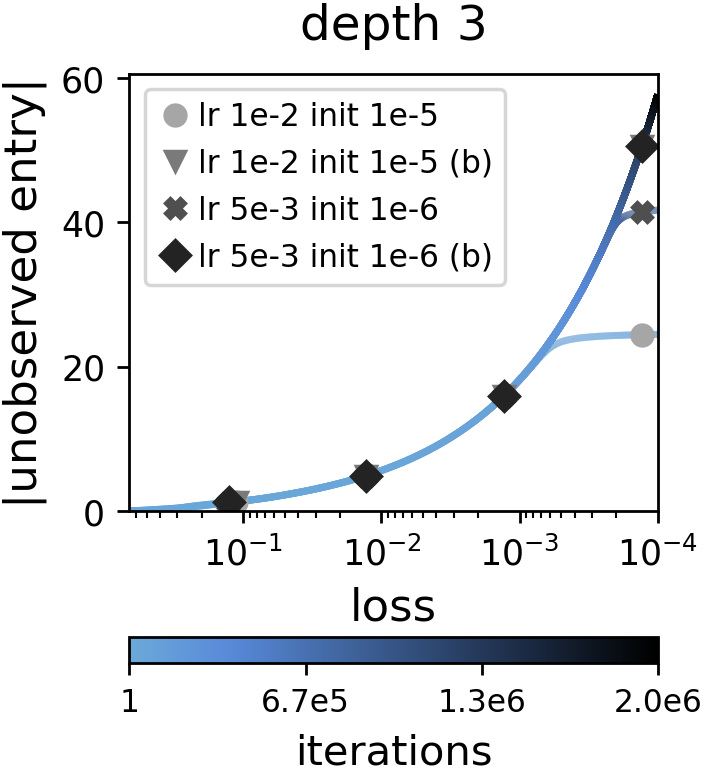
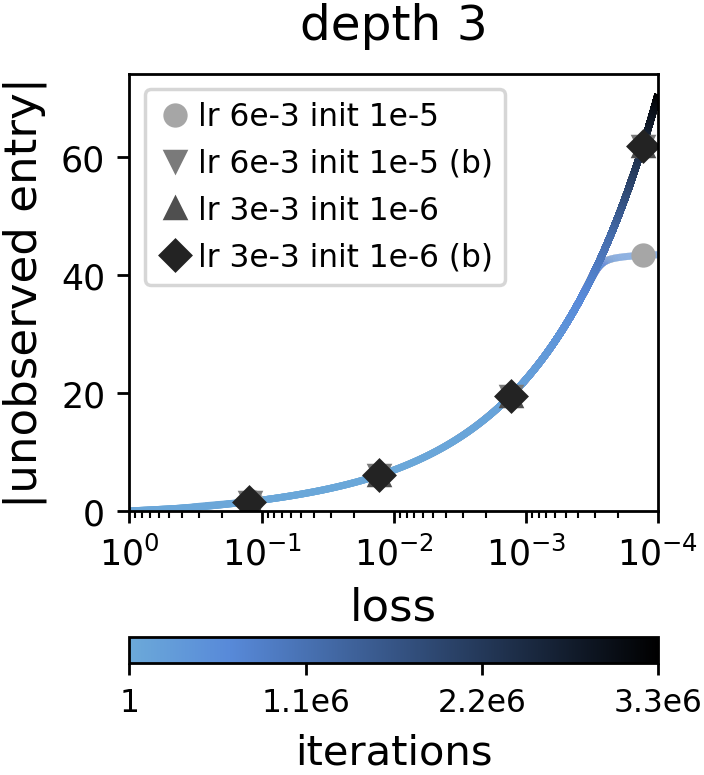
Minor changes --- updated according to new paper version

diff --git a/trainers/dln_matrix_sensing_configurable_trainer.py b/trainers/dln_matrix_sensing_configurable_trainer.py
@@ -54,7 +54,8 @@ class DLNMatrixSensingConfigurableTrainer(ConfigurableTrainerBase):
         return torch.utils.data.DataLoader(train_dataset, batch_size=len(train_dataset), shuffle=False)
 
     def create_train_and_validation_evaluators(self, model: nn.Module, device, params: dict, state: dict) -> Tuple[TrainEvaluator, Evaluator]:
-        train_metric_info_seq = [metrics.MetricInfo("mse_loss", metrics.MSELoss())]
+        train_metric_info_seq = [metrics.MetricInfo("mse_loss", metrics.MSELoss()),
+                                 metrics.MetricInfo("sse_loss_div_2", metrics.MSELoss(reduction="sum", normalization_const=2))]
         train_evaluator = SupervisedTrainEvaluator(train_metric_info_seq)
 
         tracked_e2e_value_indices = params["tracked_e2e_value_of"]
@@ -77,7 +78,7 @@ class DLNMatrixSensingConfigurableTrainer(ConfigurableTrainerBase):
         if params["store_checkpoints"]:
             callbacks_list.append(Checkpoint(state["experiment_dir"], save_interval=params["save_every_num_val"] * params["validate_every"], n_saved=1))
 
-        train_loss_fn = lambda trainer: trainer.train_evaluator.get_tracked_values()["mse_loss"].current_value
+        train_loss_fn = lambda trainer: trainer.train_evaluator.get_tracked_values()["sse_loss_div_2"].current_value
         callbacks_list.append(StopOnZeroTrainLoss(train_loss_fn=train_loss_fn, tol=params["stop_on_zero_loss_tol"]))
         callbacks_list.append(TerminateOnNaN(verify_batches=False))
 
@@ -94,19 +95,20 @@ class DLNMatrixSensingConfigurableTrainer(ConfigurableTrainerBase):
     def create_trainer(self, model: nn.Module, train_evaluator: TrainEvaluator, val_evaluator: Evaluator, callback: Callback, device, params: dict,
                        state: dict) -> Trainer:
         optimizer = optim.SGD(model.parameters(), lr=params["lr"])
-        loss = nn.MSELoss()
+        mse_loss = nn.MSELoss()
+        loss = lambda y_pred, y: mse_loss(y_pred, y) * (len(y_pred) / 2)
         return DLNMatrixSensingTrainer(model, optimizer, loss, train_evaluator=train_evaluator, val_evaluator=val_evaluator,
                                        callback=callback, device=device)
 
     def create_fit_result(self, trainer: Trainer, fit_output: FitOutput, params: dict, state: dict) -> ConfigurableTrainerFitResult:
-        mse_loss_tracked_value = fit_output.train_tracked_values["mse_loss"]
-        score = mse_loss_tracked_value.current_value if mse_loss_tracked_value.current_value is not None else -1
-        score_epoch = mse_loss_tracked_value.epochs_with_values[-1] if len(mse_loss_tracked_value.epochs_with_values) > 0 else -1
+        sse_loss_div_2 = fit_output.train_tracked_values["sse_loss_div_2"]
+        score = sse_loss_div_2.current_value if sse_loss_div_2.current_value is not None else -1
+        score_epoch = sse_loss_div_2.epochs_with_values[-1] if len(sse_loss_div_2.epochs_with_values) > 0 else -1
 
         if params["save_results"]:
             self.__save_results(trainer, fit_output, state)
 
-        return ConfigurableTrainerFitResult(score, "mse_loss", score_epoch=score_epoch)
+        return ConfigurableTrainerFitResult(score, "sse_loss_div_2", score_epoch=score_epoch)
 
     def __save_results(self, trainer: Trainer, fit_output: FitOutput, state):
         if not os.path.exists(state["experiment_dir"]):

diff --git a/dmf_results_plotter.py b/dmf_results_plotter.py
@@ -8,7 +8,7 @@ import numpy as np
 import torch
 from matplotlib.collections import LineCollection
 
-MARKERS = ["o", "v", "X", "D", "s", "1", "^", "*"]
+MARKERS = ["o", "v", "^", "D", "s", "1", "^", "h"]
 
 
 def create_training_dynamics_plots(checkpoints, experiment_name, plot_title="", min_loss=1e-4, save_plot_to=""):
@@ -87,7 +87,7 @@ def __create_marker_places(loss_values, min_loss):
 def __extract_plot_info_from_evaluators(train_evaluators_tracked_values, val_evaluators_tracked_values, min_loss):
     loss_values_seq, unobserved_entry_abs_values_seq, iterations_seq = [], [], []
     for i, (train_tracked_values, val_tracked_values) in enumerate(zip(train_evaluators_tracked_values, val_evaluators_tracked_values)):
-        loss_tracked_value = train_tracked_values["mse_loss"]
+        loss_tracked_value = train_tracked_values["sse_loss_div_2"]
         unobserved_entry_tracked_value = val_tracked_values["e2e_0_0_value"]
 
         epochs_with_unobserved_entry_value = unobserved_entry_tracked_value["epochs_with_values"]

diff --git a/dmf_experiment_runner.py b/dmf_experiment_runner.py
@@ -33,7 +33,7 @@ def main():
     p.add_argument("-stop_on_zero_loss_tol", type=float, default=1e-4, help="Stops when train loss reaches below this threshold.")
     p.add_argument("-validate_every", type=int, default=50, help="Run validation every this number of epochs")
     p.add_argument("-save_every_num_val", type=int, default=5, help="Saves checkpoints and plots every this number of validations.")
-    p.add_argument("-lr", type=float, default=5e-3, help="Training learning rate")
+    p.add_argument("-lr", type=float, default=3e-3, help="Training learning rate")
     p.add_argument("-tracked_e2e_value_of", type=int, nargs="+", action="append", default=[],
                    help="Indices of entries to track in the product matrix.")
     p.add_argument("-track_singular_values", action="store_true", help="Tracks the singular values of the product matrix.")

diff --git a/common/evaluation/metrics/regression.py b/common/evaluation/metrics/regression.py
@@ -6,12 +6,14 @@ class MSELoss(AveragedMetric):
     MSE loss metric.
     """
 
-    def __init__(self, reduction="mean"):
+    def __init__(self, reduction="mean", normalization_const=1):
         """
         :param reduction: reduction method param as supported by PyTorch MSELoss. Currently supports 'mean', 'sum' and 'none'
+        :param normalization_const: Loss is divided by this constant.
         """
         super().__init__()
         self.reduction = reduction
+        self.normalization_const = normalization_const
 
     def _calc_metric(self, y_pred, y):
         """
@@ -22,4 +24,5 @@ class MSELoss(AveragedMetric):
         """
         losses = (y_pred - y) ** 2
         loss = losses.mean() if self.reduction == "mean" else losses.sum()
+        loss /= self.normalization_const
         return loss.item(), len(y)

diff --git a/dmf_multiple_experiments_runner.py b/dmf_multiple_experiments_runner.py
@@ -26,7 +26,7 @@ def create_experiments_params_and_param_options_seq():
             "stop_on_zero_loss_tol": 1e-04,
             "validate_every": 50,
             "save_every_num_val": 100,
-            "lr": 5e-3,
+            "lr": 3e-3,
             "tracked_e2e_value_of": [[0, 0], [0, 1], [1, 0], [1, 1]],
             "track_singular_values": True,
         }

diff --git a/README.md b/README.md
@@ -27,7 +27,7 @@ python dmf_multiple_experiments_runner.py
 - A folder with checkpoints, metric plots and a log file will be automatically created under the directory specified by the ```output_dir``` parameter (default is "outputs/dmf").
 
 ### 1.2. Plotting Results
-To plot the unobserved entry (in absolute value) against the loss you can run:
+To plot the unobserved entry (in absolute value) against the loss, use:
 ```
 python dmf_results_plotter.py \
 -experiments_checkpoint_paths <experiment_checkpoint_path1> <experiment_checkpoint_path2> ... \
@@ -66,7 +66,7 @@ python tc_multiple_experiments_runner.py
 
 ### 2.2. Plotting Results
 
-To plot the reconstruction error and tensor rank against the # of observations you can run the following command:
+To plot the reconstruction error and tensor rank against the # of observations, run the following command:
 ```
 python tc_results_plotter.py -experiments_dir <experiment_dir>
 ```
@@ -86,12 +86,12 @@ Example plots:
 
 ### 2.3. Generating New Data
 
-To generate new tensor completion datasets use ```tc_data_generator.py```. 
+To generate new tensor completion datasets, use ```tc_data_generator.py```. 
 
 
 
 ## Citation
-For citing the paper:
+For citing the paper, please use:
 ```
 @article{razin2020implicit,
   title={Implicit Regularization in Deep Learning May Not Be Explainable by Norms},
